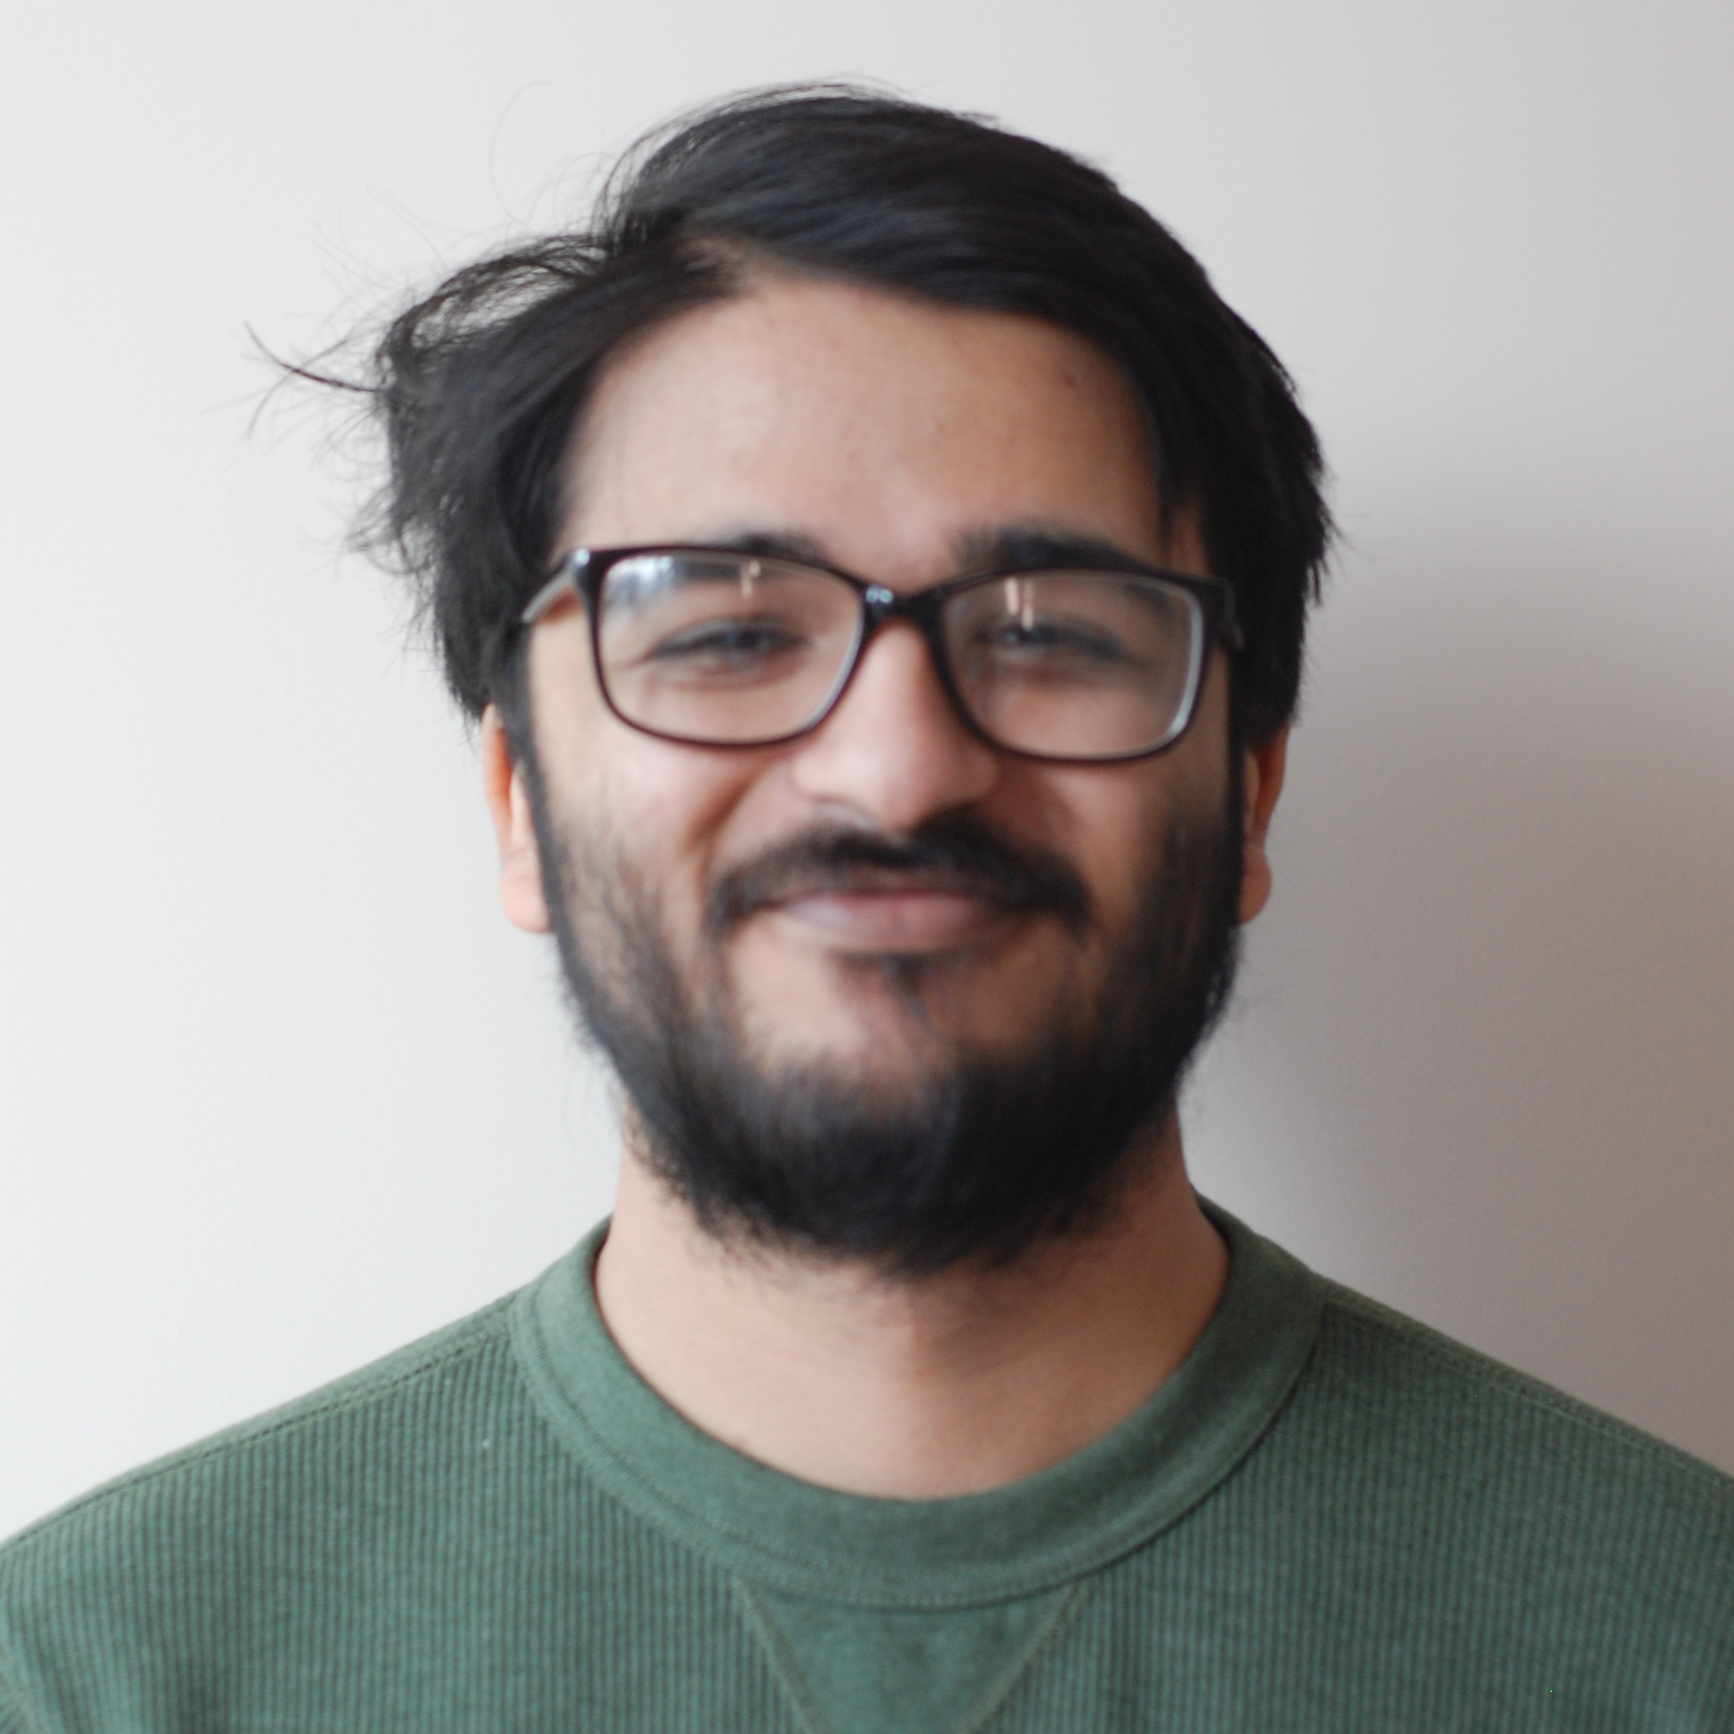
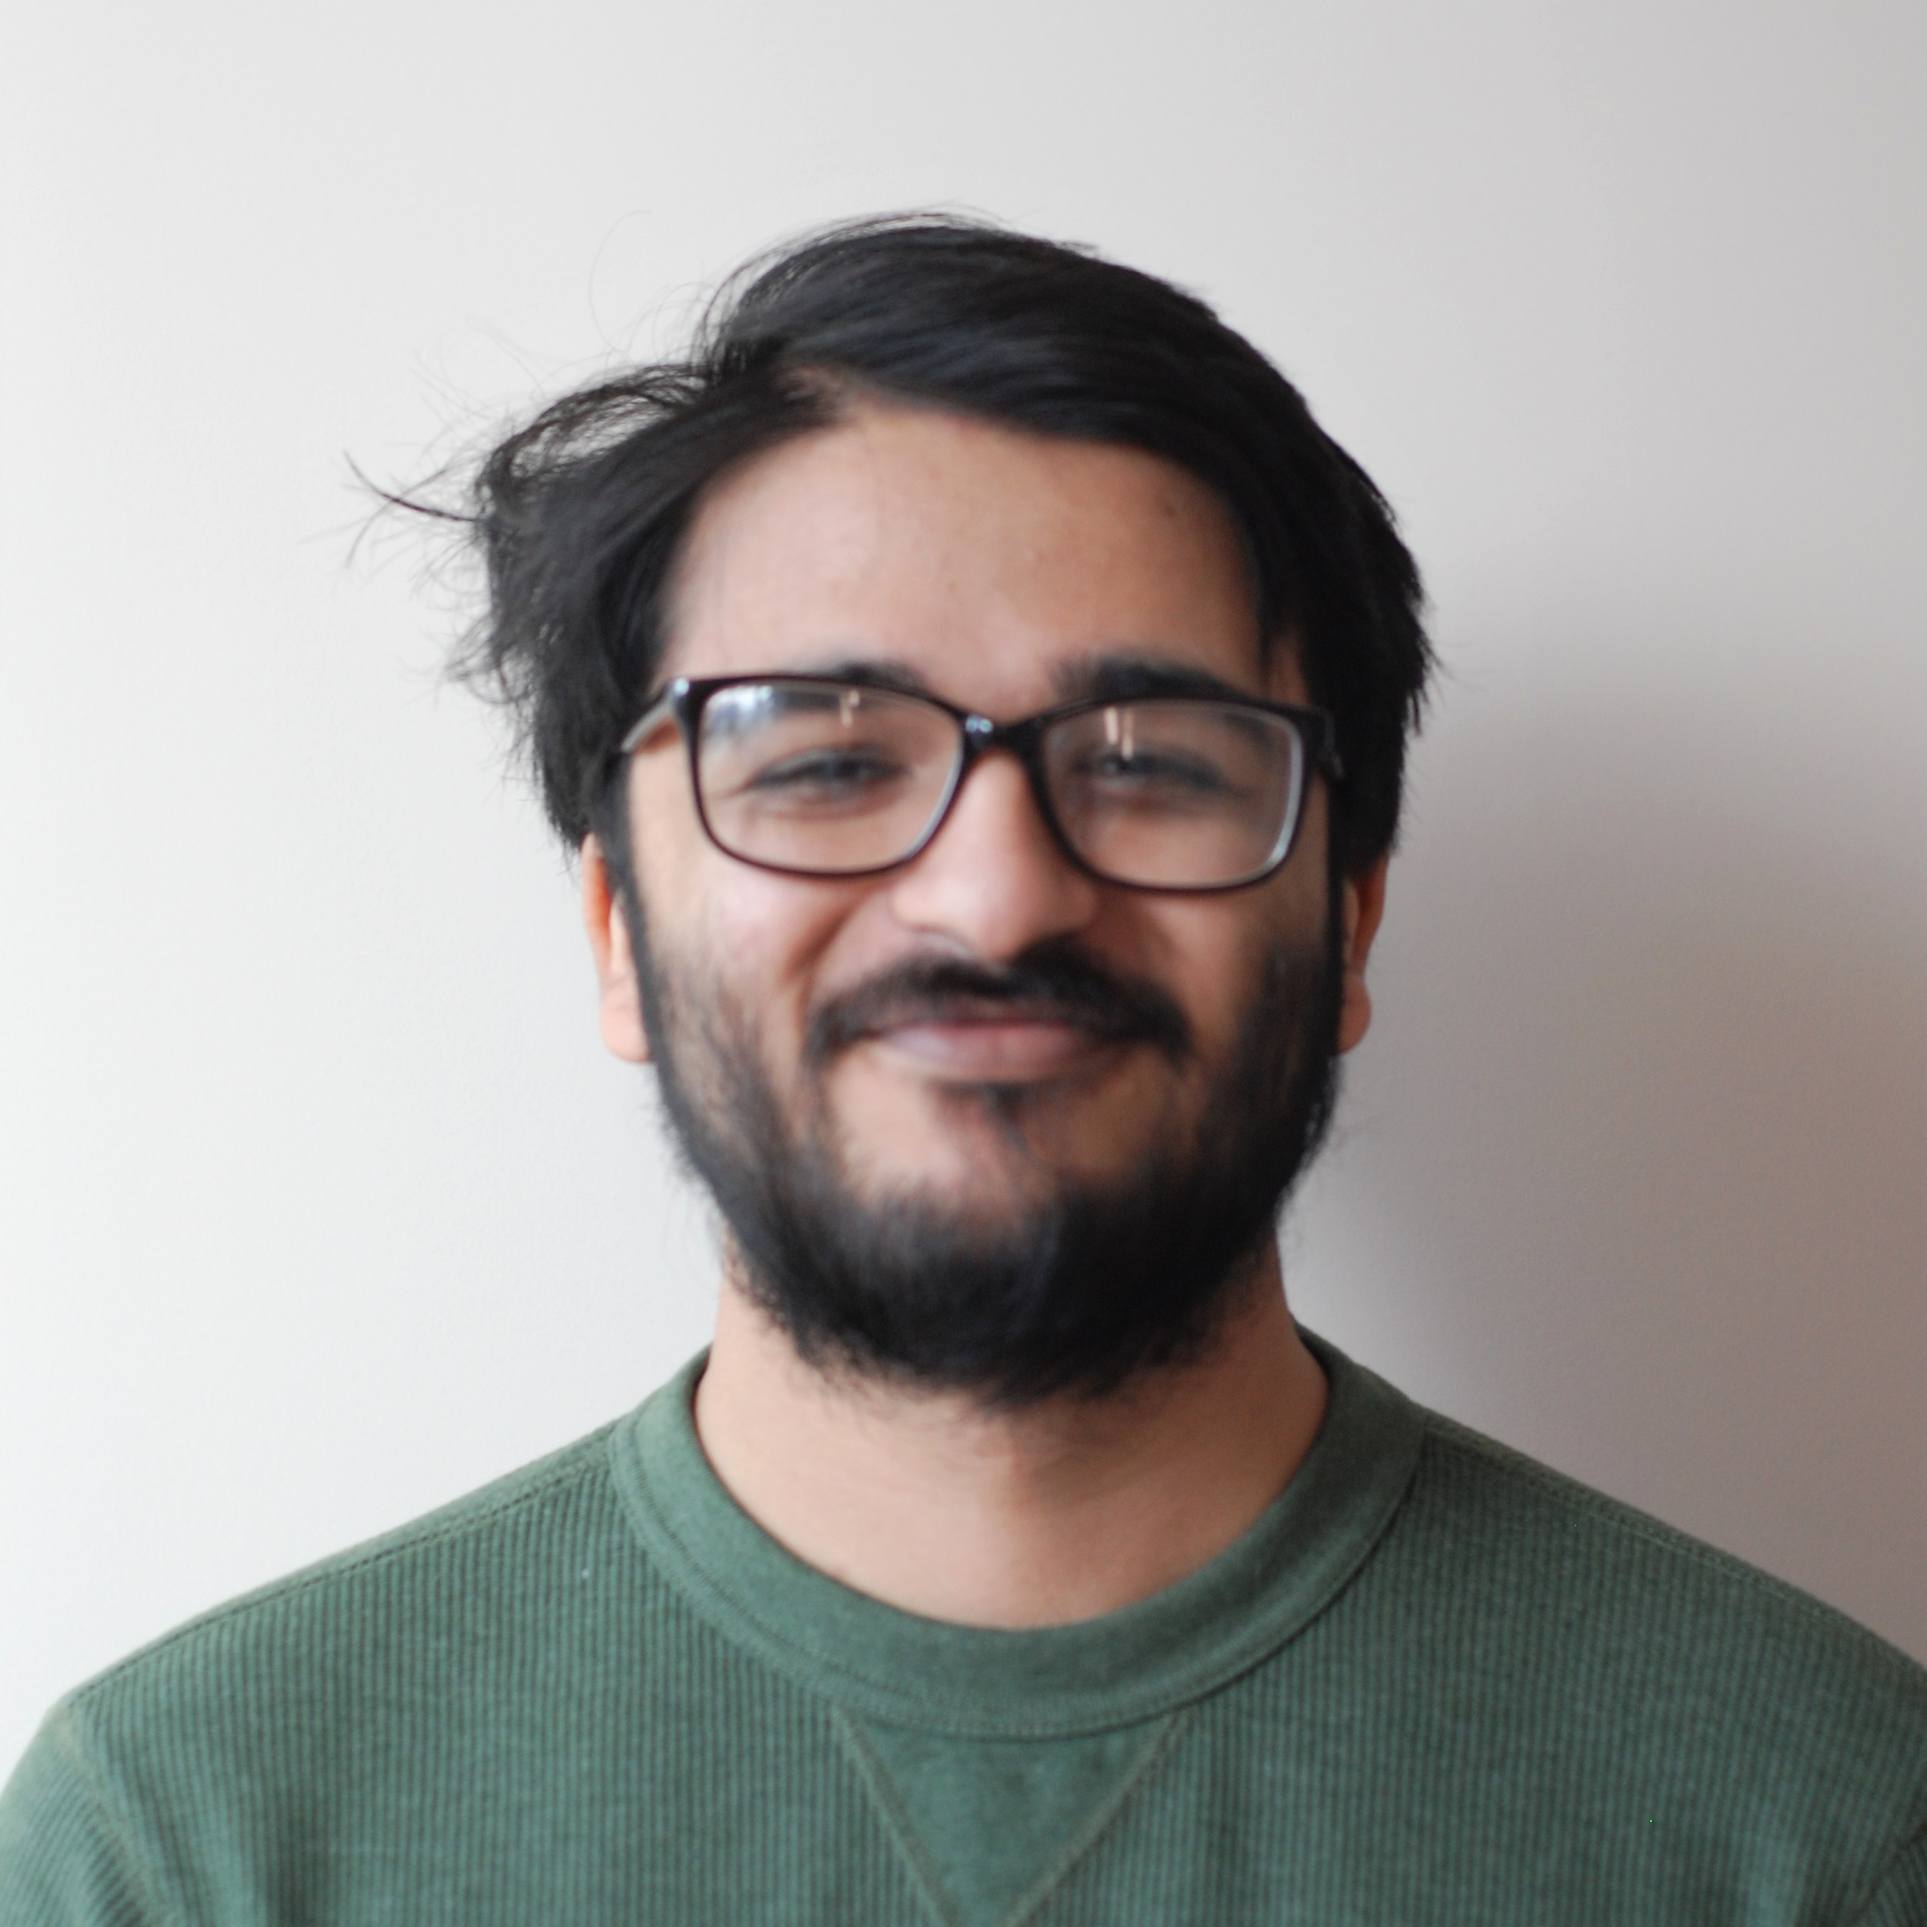
headshots

diff --git a/about.html b/about.html
@@ -111,7 +111,7 @@
             <h4 class="text-muted">Meet the team leaders that are working hard to build NYCAASC 2019: Collision!</h4>
           </div>
           <div class="col-sm-12 col-md-4 col-lg-3 mb-3">
-            <img src="assets/img/e-board/sqrPlaceholder.jpg">
+            <img src="assets/img/e-board/Richard.jpg">
             <h3>Richard Lu</h3>
             <h4>Director</h4>
             <h5>Hunter College</h5>
@@ -155,7 +155,7 @@
           </div>
           
            <div class="col-sm-12 col-md-4 col-lg-3 mb-3">
-            <img src="assets/img/e-board/sqrPlaceholder.jpg">
+            <img src="assets/img/e-board/Lisa.jpg">
             <h3>Lisa Ng</h3>
             <h4>HSL Director</h4>
             <h5>CUNY Graduate Center</h5>
@@ -167,7 +167,7 @@
           </div>
           
            <div class="col-sm-12 col-md-4 col-lg-3 mb-3">
-            <img src="assets/img/e-board/sqrPlaceholder.jpg">
+            <img src="assets/img/e-board/Jennifer.jpg">
             <h3>Jennifer Lee</h3>
             <h4>Marketing Chair</h4>
             <h5>Stuyvesant High School</h5>
@@ -177,7 +177,7 @@
           </div>
           
            <div class="col-sm-12 col-md-4 col-lg-3 mb-3">
-            <img src="assets/img/e-board/sqrPlaceholder.jpg">
+            <img src="assets/img/e-board/Tina.jpg">
             <h3>Tina Zhang</h3>
             <h4>Marketing Chair</h4>
             <h5>Hunter College</h5>
@@ -197,7 +197,7 @@
           </div>
           
            <div class="col-sm-12 col-md-4 col-lg-3 mb-3">
-            <img src="assets/img/e-board/sqrPlaceholder.jpg">
+            <img src="assets/img/e-board/Bonnie.jpg">
             <h3>Bonnie Tang</h3>
             <h4>Public Relations Chair</h4>
             <h5>School</h5>
@@ -217,7 +217,7 @@
           </div>
           
           <div class="col-sm-12 col-md-4 col-lg-3 mb-3">
-            <img src="assets/img/e-board/sqrPlaceholder.jpg">
+            <img src="assets/img/e-board/Heather.jpg">
             <h3>Heather Phan Nguyen</h3>
             <h4>Workshops Chair</h4>
             <h5>Vassar College, 2020</h5>
@@ -237,7 +237,7 @@
           </div>
           
           <div class="col-sm-12 col-md-4 col-lg-3 mb-3">
-            <img src="assets/img/e-board/sqrPlaceholder.jpg">
+            <img src="assets/img/e-board/Jeffrey.jpg">
             <h3>Jeffrey Yu</h3>
             <h4>Logistics Chair</h4>
             <h5>Roslyn High School</h5>

diff --git a/resources.html b/resources.html
@@ -24,7 +24,7 @@
 
     <title>NYCAASC</title>
   </head>
-  <body>
+  <body id="resources">
     <nav class="navbar navbar-expand-lg navbar-light bg-light px-5">
       <a class="narbar-brand " href="index.html">
         <img src="assets/img/logos/logoOnly.png" height="50px" class="d-inline-block align-top">
